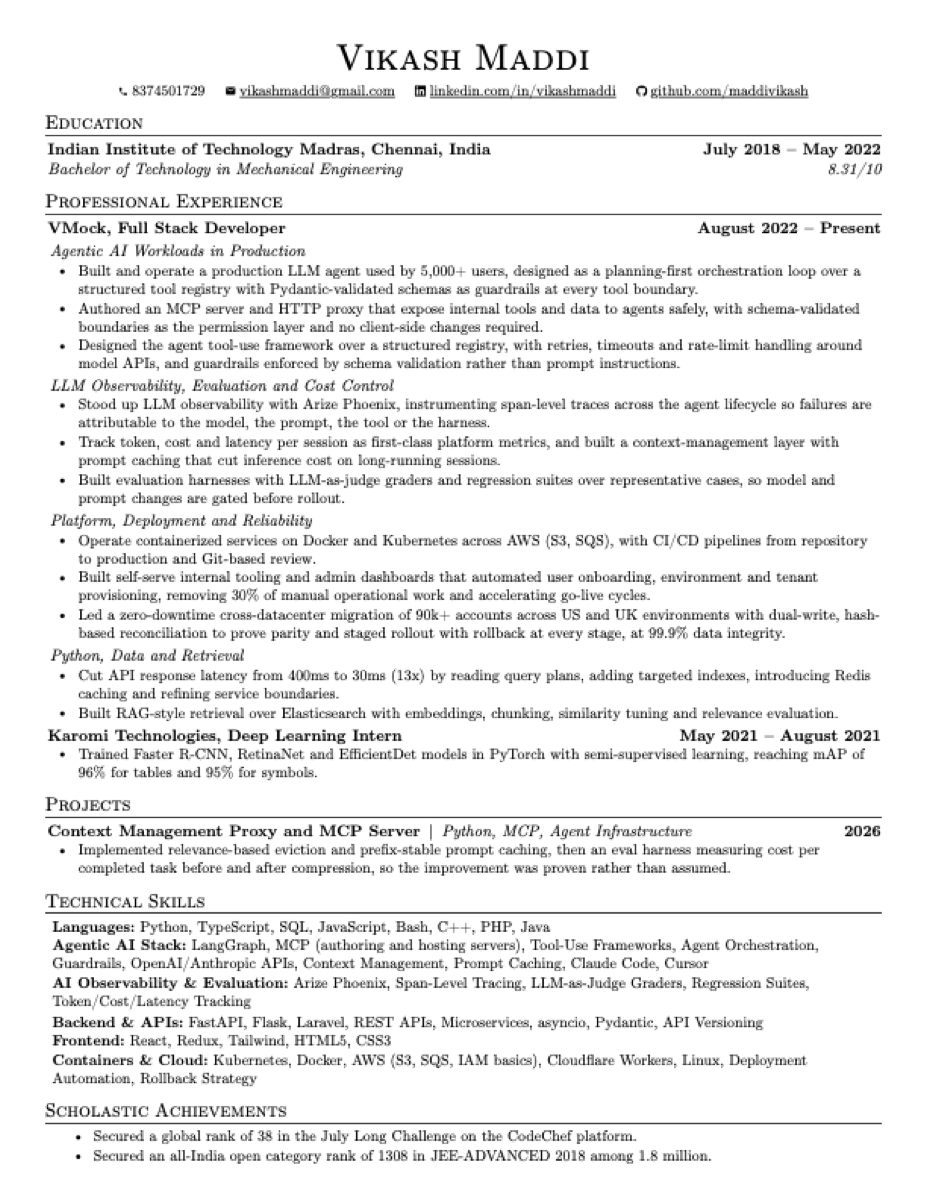
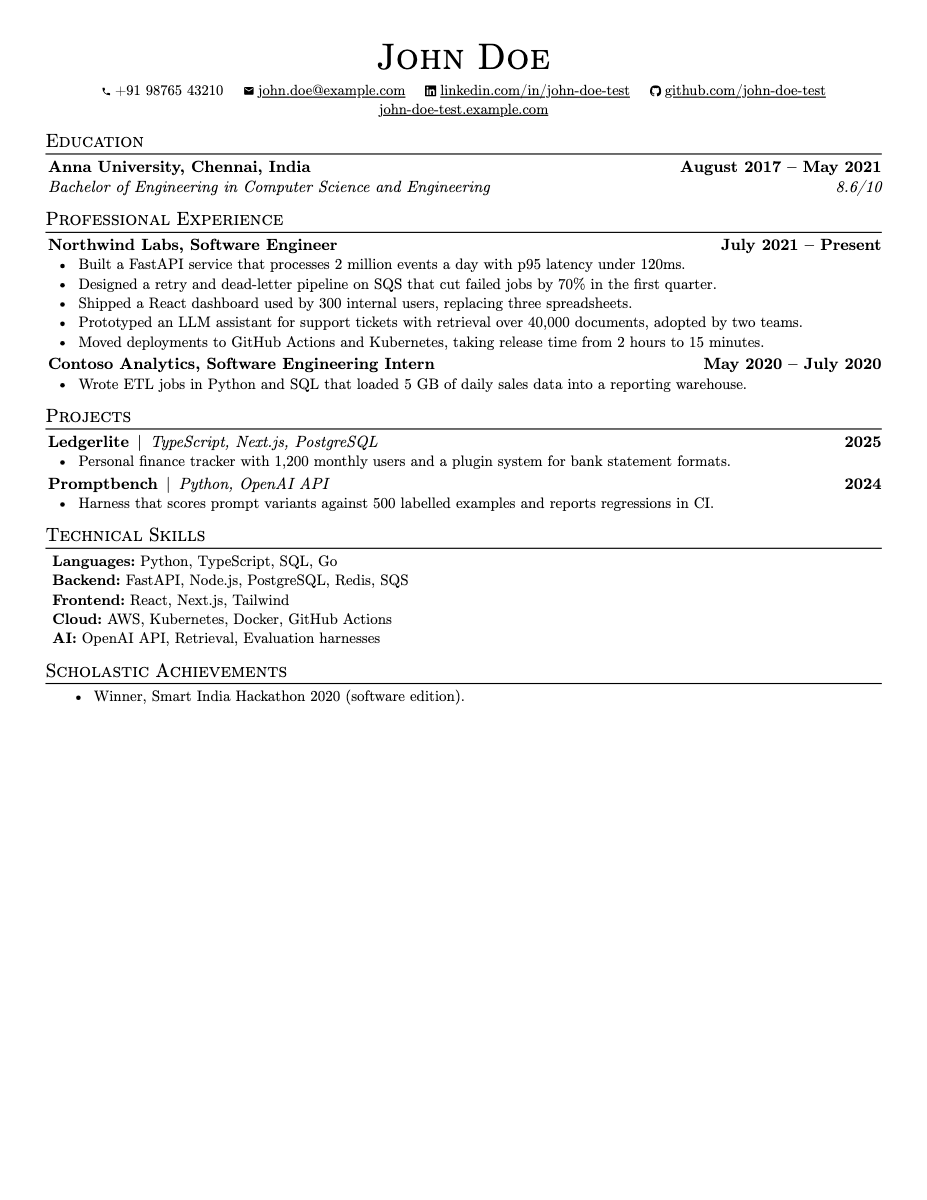
Rename the product to Lazy Apply; landing sample uses a fictional John Doe
Every user-facing "Auto Apply" (brand, titles, emails, legal pages, connector docs, MCP server
name, User-Agent) now reads Lazy Apply. The landing page's sample form and resume image come
from the fictional test profile instead of a real person; scripts/make-sample-resume.mts
regenerates the image.

Changed region(s): [[0.0302, 0.0308, 0.9666, 0.9867], [0.9061, 0.6783, 0.9666, 0.7092]]

diff --git a/src/app/page.tsx b/src/app/page.tsx
@@ -23,7 +23,7 @@ export default async function Landing() {
         <section className="flex flex-col items-center gap-14 pb-20 pt-16 text-center lg:pb-28 lg:pt-24">
           <div className="rise flex max-w-3xl flex-col items-center">
             <h1 className="display text-[46px] sm:text-[62px] lg:text-[76px]">Paste a job link.<br />Review it. Press <span className="serif-i">Submit.</span></h1>
-            <p className="mx-auto mt-7 max-w-xl text-[18px] leading-relaxed text-muted">Auto Apply writes a one-page resume for the role from your own profile, answers the form with what it already knows about you, and fills it in a browser window on your machine. Nothing is sent until you say so.</p>
+            <p className="mx-auto mt-7 max-w-xl text-[18px] leading-relaxed text-muted">Lazy Apply writes a one-page resume for the role from your own profile, answers the form with what it already knows about you, and fills it in a browser window on your machine. Nothing is sent until you say so.</p>
             <div className="mt-9 flex flex-wrap items-center justify-center gap-3">
               <Link href="/sign-up" className="btn-primary btn-lg">Start with your resume</Link>
               <Link href="/sign-in" className="btn-ghost btn-lg">I have an account</Link>
@@ -93,7 +93,7 @@ export default async function Landing() {
 /** A still of the review page with real-looking content, so the first thing you see is the product. */
 function ProductFrame() {
   const answers: [string, string, boolean][] = [
-    ["First name", "Vikash", true], ["Email", "vikash@example.com", true], ["LinkedIn", "linkedin.com/in/vikash", true],
+    ["First name", "John", true], ["Email", "john.doe@example.com", true], ["LinkedIn", "linkedin.com/in/john-doe", true],
     ["Need sponsorship for this location?", "No", true], ["Willing to relocate?", "Yes, willing to relocate", true], ["Why Cloudflare?", "", false]
   ];
   return (
@@ -116,7 +116,7 @@ function ProductFrame() {
           </ul>
           <div className="relative min-h-[240px] overflow-hidden bg-surface-2/60 p-4">
             <div className="flex items-center justify-between"><span className="font-medium">Tailored resume</span><span className="text-muted">1 page</span></div>
-            <Image src="/sample-resume.png" alt="A one-page resume tailored by Auto Apply" width={1200} height={1553} className="absolute left-4 right-4 top-11 w-[calc(100%-2rem)] rounded-[4px] shadow-[0_10px_30px_-10px_rgba(0,0,0,0.6)]" priority />
+            <Image src="/sample-resume.png" alt="A one-page resume tailored by Lazy Apply" width={1200} height={1553} className="absolute left-4 right-4 top-11 w-[calc(100%-2rem)] rounded-[4px] shadow-[0_10px_30px_-10px_rgba(0,0,0,0.6)]" priority />
           </div>
         </div>
         <div className="flex items-center justify-between border-t border-line px-4 py-3">

diff --git a/src/app/connect/docs/page.tsx b/src/app/connect/docs/page.tsx
@@ -23,8 +23,8 @@ export default function ConnectorDocs() {
   return (
     <main className="mx-auto max-w-3xl px-6 py-12 text-[14px] leading-relaxed">
       <Link href="/"><Brand /></Link>
-      <h1 className="mt-8 text-2xl font-semibold">Auto Apply connector</h1>
-      <p className="mt-3 text-muted">Auto Apply turns a job posting link into a one-page resume tailored from the user&apos;s own profile, plus the answers to the application form&apos;s questions. The agent brings the browser; this service brings the resume and the answers. Nothing is invented: every number and claim is checked against the user&apos;s profile before the PDF is rendered.</p>
+      <h1 className="mt-8 text-2xl font-semibold">Lazy Apply connector</h1>
+      <p className="mt-3 text-muted">Lazy Apply turns a job posting link into a one-page resume tailored from the user&apos;s own profile, plus the answers to the application form&apos;s questions. The agent brings the browser; this service brings the resume and the answers. Nothing is invented: every number and claim is checked against the user&apos;s profile before the PDF is rendered.</p>
 
       <h2 className="mt-10 text-lg font-semibold">Endpoints</h2>
       <table className="mt-3 w-full text-left text-[13.5px]"><tbody className="divide-rows">
@@ -35,7 +35,7 @@ export default function ConnectorDocs() {
       </tbody></table>
 
       <h2 className="mt-10 text-lg font-semibold">Authentication</h2>
-      <p className="mt-2 text-muted">MCP clients use OAuth 2.1 with PKCE; the authorization server is discovered from the metadata URL above and the user signs in with their Auto Apply account. The REST API also accepts a personal API key as a bearer token, generated on the Connect page inside the app. Tokens and keys are scoped to one account. Users can revoke a key or disconnect an OAuth client at any time.</p>
+      <p className="mt-2 text-muted">MCP clients use OAuth 2.1 with PKCE; the authorization server is discovered from the metadata URL above and the user signs in with their Lazy Apply account. The REST API also accepts a personal API key as a bearer token, generated on the Connect page inside the app. Tokens and keys are scoped to one account. Users can revoke a key or disconnect an OAuth client at any time.</p>
 
       <h2 className="mt-10 text-lg font-semibold">The flow an agent follows</h2>
       <ol className="mt-2 list-decimal space-y-1.5 pl-5 text-muted">

diff --git a/src/lib/email.ts b/src/lib/email.ts
@@ -1,14 +1,14 @@
 import { Resend } from "resend";
 import type { Application } from "./store";
 
-const FROM = process.env.RESEND_FROM || "Auto Apply <onboarding@resend.dev>";
+const FROM = process.env.RESEND_FROM || "Lazy Apply <onboarding@resend.dev>";
 const APP_URL = process.env.APP_URL || "http://localhost:3000";
 const esc = (s: string) => s.replace(/&/g, "&amp;").replace(/</g, "&lt;").replace(/>/g, "&gt;");
 
 function wrap(title: string, body: string) {
   return `<div style="font-family:-apple-system,Segoe UI,Helvetica,Arial,sans-serif;font-size:15px;line-height:1.5;color:#171A21;max-width:640px">
   <h2 style="margin:0 0 12px;font-weight:600">${esc(title)}</h2>${body}
-  <p style="color:#6B7280;font-size:13px;margin-top:28px">Sent by Auto Apply. Nothing is submitted until you press Submit in the app.</p></div>`;
+  <p style="color:#6B7280;font-size:13px;margin-top:28px">Sent by Lazy Apply. Nothing is submitted until you press Submit in the app.</p></div>`;
 }
 
 /** Set by callers that know the user, so a failed send can be shown in the app instead of vanishing into a log. */
@@ -43,7 +43,7 @@ export async function emailResumeReady(to: string, app: Application, pdf: Buffer
   await send(to, `Resume ready: ${job.company}, ${job.title}`, wrap("Resume ready", body), [{ filename: fileName, content: pdf }]);
 }
 export async function emailNotPossible(to: string, app: Application, reason: string) {
-  await send(to, `Can't auto-apply: ${app.url}`, wrap("This link is not supported", `<p>${esc(reason)}</p><p>Supported today: Greenhouse, Lever and Ashby job pages.</p>`));
+  await send(to, `Lazy Apply can't apply to: ${app.url}`, wrap("This link is not supported", `<p>${esc(reason)}</p><p>Supported today: Greenhouse, Lever and Ashby job pages.</p>`));
 }
 export async function emailFormFilled(to: string, app: Application) {
   const job = app.job!; const link = `${APP_URL}/a/${app.id}`;

diff --git a/src/app/terms/page.tsx b/src/app/terms/page.tsx
@@ -5,10 +5,10 @@ export const dynamic = "force-static";
 export default function Terms() {
   return (
     <LegalPage title="Terms of service" updated="19 September 2026">
-      <p>These terms cover your use of Auto Apply, operated by Vikash Maddi (&quot;we&quot;). By creating an account or connecting an agent to it, you agree to them.</p>
+      <p>These terms cover your use of Lazy Apply, operated by Vikash Maddi (&quot;we&quot;). By creating an account or connecting an agent to it, you agree to them.</p>
 
       <h2>What the service does</h2>
-      <p>Auto Apply reads a job posting you link, writes a one-page resume from facts in your profile, renders it as a PDF, and works out answers to the application form from your standing answers. It can hand those to your desktop runner or to an AI agent you connect. The service itself never submits an application.</p>
+      <p>Lazy Apply reads a job posting you link, writes a one-page resume from facts in your profile, renders it as a PDF, and works out answers to the application form from your standing answers. It can hand those to your desktop runner or to an AI agent you connect. The service itself never submits an application.</p>
 
       <h2>Your responsibilities</h2>
       <ul>

diff --git a/src/app/sprint/page.tsx b/src/app/sprint/page.tsx
@@ -39,7 +39,7 @@ const FAQ: [string, string][] = [
   ["Which companies?", "Product companies that hire through Greenhouse, Lever or Ashby: Cloudflare, Databricks, Figma, OpenAI, CRED, Meesho and more than a hundred others. Tell us any you want added or avoided."],
   ["Who is it for?", "Software engineers with 0 to 5 years of experience applying in India or to remote roles. Other roles: ask first."],
   ["What if you don't submit 50?", "You get a full refund, no questions. If there are fewer than 50 good matches for what you want, we tell you in the first two days and refund the difference."],
-  ["Is my data safe?", "Your profile, answers and resumes live in your own Auto Apply account. You can delete any of it at any time. See the privacy page."],
+  ["Is my data safe?", "Your profile, answers and resumes live in your own Lazy Apply account. You can delete any of it at any time. See the privacy page."],
 ];
 
 export default function SprintPage() {

diff --git a/src/app/privacy/page.tsx b/src/app/privacy/page.tsx
@@ -5,7 +5,7 @@ export const dynamic = "force-static";
 export default function Privacy() {
   return (
     <LegalPage title="Privacy policy" updated="19 September 2026">
-      <p>Auto Apply (&quot;the service&quot;) is built and operated by Vikash Maddi. It prepares job applications for you: a resume tailored from your own profile and the answers to an application form&apos;s questions. This page explains what the service stores, why, and how to remove it.</p>
+      <p>Lazy Apply (&quot;the service&quot;) is built and operated by Vikash Maddi. It prepares job applications for you: a resume tailored from your own profile and the answers to an application form&apos;s questions. This page explains what the service stores, why, and how to remove it.</p>
 
       <h2>What we collect</h2>
       <ul>

diff --git a/src/app/(app)/dashboard/page.tsx b/src/app/(app)/dashboard/page.tsx
@@ -37,7 +37,7 @@ export default async function Dashboard({ searchParams }: { searchParams: Promis
   return (
     <div className="space-y-8">
       <AutoRefresh seconds={s.inProgress || s.awaitingSubmit ? 5 : 20} />
-      <PageHeader title="Applications" description={apps.length ? "Newest first. Open one to review the resume, answer what is open, and approve." : "Paste a job link and Auto Apply prepares the whole application for your review."} />
+      <PageHeader title="Applications" description={apps.length ? "Newest first. Open one to review the resume, answer what is open, and approve." : "Paste a job link and Lazy Apply prepares the whole application for your review."} />
 
       {profile ? (
         <section className="relative">

diff --git a/src/app/layout.tsx b/src/app/layout.tsx
@@ -8,7 +8,7 @@ const sans = IBM_Plex_Sans({ subsets: ["latin"], weight: ["400", "500", "600"], 
 const mono = IBM_Plex_Mono({ subsets: ["latin"], weight: ["400", "500"], variable: "--font-plex-mono" });
 const serif = Instrument_Serif({ subsets: ["latin"], weight: "400", style: ["italic"], variable: "--font-instrument-serif" });
 
-export const metadata: Metadata = { title: "Auto Apply", description: "Paste a job link. Get a tailored resume, a filled form, and the final say." };
+export const metadata: Metadata = { title: "Lazy Apply", description: "Paste a job link. Get a tailored resume, a filled form, and the final say." };
 
 export default function RootLayout({ children }: { children: React.ReactNode }) {
   return (

diff --git a/src/app/mcp/route.ts b/src/app/mcp/route.ts
@@ -149,7 +149,7 @@ const handler = createMcpHandler((server) => {
     description: "Change one or more standing answers. Keys as returned by get_known_answers; values are strings (Yes/No for the yes-no fields; resumeDefault is 'best', 'original' or 'tailored').",
     inputSchema: z.object({ answers: z.record(z.string(), z.string()) })
   }, async ({ answers }, extra) => run(() => c.updateKnownAnswers(uid(extra), answers)));
-}, { serverInfo: { name: "auto-apply", version: "1.0.0" } });
+}, { serverInfo: { name: "lazy-apply", version: "1.0.0" } });
 
 // Local design previews only: never set on Vercel.
 const previewUser = () => (process.env.NODE_ENV !== "production" ? process.env.DEV_FAKE_USER || null : null);

diff --git a/src/lib/jobs/boards.ts b/src/lib/jobs/boards.ts
@@ -55,7 +55,7 @@ const TTL_MS = 6 * 60 * 60 * 1000;
 type Cached = { at: number; listings: Listing[] };
 
 async function fetchJson(url: string): Promise<unknown> {
-  const r = await fetch(url, { headers: { Accept: "application/json", "User-Agent": "auto-apply/1.0" }, signal: AbortSignal.timeout(12000) });
+  const r = await fetch(url, { headers: { Accept: "application/json", "User-Agent": "lazy-apply/1.0" }, signal: AbortSignal.timeout(12000) });
   if (!r.ok) throw new Error(`${r.status}`);
   return r.json();
 }

diff --git a/src/lib/api/openapi.ts b/src/lib/api/openapi.ts
@@ -8,7 +8,7 @@ export function openapi(origin: string) {
   return {
     openapi: "3.1.0",
     info: {
-      title: "Auto Apply connector API",
+      title: "Lazy Apply connector API",
       version: "1.0.0",
       description: [
         "Prepare job applications for a signed-in user: paste a Greenhouse, Lever or Ashby posting link, get a one-page resume tailored from the user's own profile (nothing invented), the PDF, and the answers to the form's questions.",

diff --git a/src/components/brand.tsx b/src/components/brand.tsx
@@ -18,7 +18,7 @@ export function Brand({ size = "md" }: { size?: "md" | "lg" }) {
   return (
     <span className={`inline-flex items-center font-semibold tracking-[-0.04em] ${size === "lg" ? "gap-3 text-[23px]" : "gap-2.5 text-[18px]"}`}>
       <BrandMark size={size === "lg" ? 30 : 24} />
-      <span className="whitespace-nowrap leading-none">Auto Apply</span>
+      <span className="whitespace-nowrap leading-none">Lazy Apply</span>
     </span>
   );
 }
